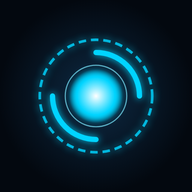
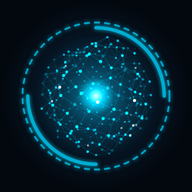
Núcleo animado de partículas com 5 formatos e ícone novo
- public/nucleo.js desenha num <canvas> partículas em 3D em cinco
  formatos (rede neural, galáxia, anéis, cristal, enxame), na cor do
  tema. Reage ao estado: repouso, ouvindo (verde), pensando (gira mais
  rápido) e falando (pulsa a cada palavra).
- Escolha do formato nos Ajustes, com miniaturas, salva no navegador.
- Ícones do app refeitos a partir do núcleo "rede neural".

Claude-Session: https://claude.ai/code/session_01QmDKrBNafgWBL5yhFnsjsj

Changed region(s): [[0.0938, 0.0938, 0.9062, 0.9062], [0.25, 0.1875, 0.2812, 0.2188]]

diff --git a/jarvis/public/nucleo.js b/jarvis/public/nucleo.js
@@ -1,0 +1,223 @@
+// Núcleo animado do Jarvis: partículas em 3D desenhadas num <canvas>.
+// Formatos: neural, galaxia, aneis, cristal, enxame. Reage ao estado (repouso, ouvindo, pensando, falando).
+(function () {
+  const FORMATOS = {
+    neural: "Rede neural",
+    galaxia: "Galáxia",
+    aneis: "Anéis",
+    cristal: "Cristal",
+    enxame: "Enxame",
+  };
+
+  // Gerador pseudoaleatório fixo: o mesmo formato sempre nasce igual.
+  function aleatorio(semente) {
+    let s = semente >>> 0;
+    return () => ((s = (s * 1664525 + 1013904223) >>> 0) / 4294967296);
+  }
+
+  // Cria os pontos (x, y, z em torno de 0, raio ~1) e as ligações de cada formato.
+  function gerar(formato, total) {
+    const r = aleatorio(42);
+    const pontos = [];
+    const ligacoes = [];
+    if (formato === "neural") {
+      const ouro = Math.PI * (3 - Math.sqrt(5));
+      for (let i = 0; i < total; i++) {
+        const y = 1 - (i / (total - 1)) * 2;
+        const raio = Math.sqrt(1 - y * y);
+        const a = ouro * i;
+        const k = 0.72 + r() * 0.28;
+        pontos.push({ x: Math.cos(a) * raio * k, y: y * k, z: Math.sin(a) * raio * k, t: r() });
+      }
+      // Liga cada ponto aos vizinhos mais próximos.
+      for (let i = 0; i < pontos.length; i++) {
+        const perto = [];
+        for (let j = i + 1; j < pontos.length; j++) {
+          const dx = pontos[i].x - pontos[j].x, dy = pontos[i].y - pontos[j].y, dz = pontos[i].z - pontos[j].z;
+          const d = dx * dx + dy * dy + dz * dz;
+          if (d < 0.09) perto.push([d, j]);
+        }
+        perto.sort((a, b) => a[0] - b[0]).slice(0, 2).forEach(([, j]) => ligacoes.push([i, j]));
+      }
+    } else if (formato === "galaxia") {
+      const bracos = 3;
+      for (let i = 0; i < total; i++) {
+        const braco = i % bracos;
+        const d = Math.pow(r(), 0.7);
+        const a = (braco / bracos) * Math.PI * 2 + d * 4.2 + (r() - 0.5) * 0.5;
+        const espalha = (1 - d) * 0.12 + 0.03;
+        pontos.push({ x: Math.cos(a) * d + (r() - 0.5) * espalha, y: (r() - 0.5) * 0.12 * (1 - d), z: Math.sin(a) * d + (r() - 0.5) * espalha, t: r() });
+      }
+    } else if (formato === "aneis") {
+      const aneis = [[0.95, 0.3, 0], [0.75, -0.9, 0.6], [0.55, 1.3, -0.4]];
+      for (let i = 0; i < total; i++) {
+        const [raio, incl, giro] = aneis[i % aneis.length];
+        const a = r() * Math.PI * 2;
+        let x = Math.cos(a) * raio, y = 0, z = Math.sin(a) * raio;
+        // Inclina cada anel num eixo diferente.
+        const y1 = y * Math.cos(incl) - z * Math.sin(incl), z1 = y * Math.sin(incl) + z * Math.cos(incl);
+        const x2 = x * Math.cos(giro) - z1 * Math.sin(giro), z2 = x * Math.sin(giro) + z1 * Math.cos(giro);
+        pontos.push({ x: x2, y: y1, z: z2, t: r(), anel: i % aneis.length });
+      }
+    } else if (formato === "cristal") {
+      const raios = 14;
+      const direcoes = [];
+      for (let k = 0; k < raios; k++) {
+        const y = 1 - (k / (raios - 1)) * 2, raio = Math.sqrt(1 - y * y), a = k * 2.4;
+        direcoes.push([Math.cos(a) * raio, y, Math.sin(a) * raio]);
+      }
+      for (let i = 0; i < total; i++) {
+        const [dx, dy, dz] = direcoes[i % raios];
+        const d = Math.pow(r(), 1.6) * (0.6 + 0.4 * ((i % 3) / 2));
+        pontos.push({ x: dx * d, y: dy * d, z: dz * d, t: r() });
+      }
+    } else {
+      // enxame: nuvem que se mexe sozinha
+      for (let i = 0; i < total; i++) {
+        const u = r(), v = r(), d = Math.cbrt(r()) * 0.95;
+        const teta = u * Math.PI * 2, fi = Math.acos(2 * v - 1);
+        pontos.push({ x: d * Math.sin(fi) * Math.cos(teta), y: d * Math.cos(fi), z: d * Math.sin(fi) * Math.sin(teta), t: r(), vel: 0.5 + r() });
+      }
+    }
+    return { pontos, ligacoes };
+  }
+
+  function corDoTema() {
+    const css = getComputedStyle(document.documentElement);
+    return {
+      acento: css.getPropertyValue("--acento-rgb").trim() || "0, 212, 255",
+      claro: css.getPropertyValue("--nucleo-centro").trim() || "#ffffff",
+      verde: css.getPropertyValue("--verde").trim() || "#2ef2a0",
+    };
+  }
+
+  function hexParaRgb(hex) {
+    const m = hex.replace("#", "").match(/^([0-9a-f]{2})([0-9a-f]{2})([0-9a-f]{2})$/i);
+    return m ? `${parseInt(m[1], 16)}, ${parseInt(m[2], 16)}, ${parseInt(m[3], 16)}` : "46, 242, 160";
+  }
+
+  // Desenha um quadro. "e" = energia (0 a 1), "pulso" = impulso da voz (1 = parado).
+  function desenhar(ctx, tamanho, modelo, formato, tempo, ang, e, pulso, cores, corRgb) {
+    const meio = tamanho / 2;
+    const escala = tamanho * 0.36 * (1 + (pulso - 1) * 0.6);
+    ctx.clearRect(0, 0, tamanho, tamanho);
+
+    // Brilho do centro.
+    const brilho = ctx.createRadialGradient(meio, meio, 0, meio, meio, tamanho * 0.42);
+    brilho.addColorStop(0, `rgba(${corRgb}, ${0.18 + e * 0.32})`);
+    brilho.addColorStop(0.5, `rgba(${corRgb}, ${0.05 + e * 0.1})`);
+    brilho.addColorStop(1, `rgba(${corRgb}, 0)`);
+    ctx.fillStyle = brilho;
+    ctx.fillRect(0, 0, tamanho, tamanho);
+
+    ctx.globalCompositeOperation = "lighter";
+    const cos = Math.cos(ang), sin = Math.sin(ang);
+    const inclinacao = formato === "galaxia" ? 1.05 : 0.35;
+    const ci = Math.cos(inclinacao), si = Math.sin(inclinacao);
+    const proj = new Array(modelo.pontos.length);
+
+    for (let i = 0; i < modelo.pontos.length; i++) {
+      const p = modelo.pontos[i];
+      let { x, y, z } = p;
+      if (formato === "enxame") {
+        const w = tempo * 0.0006 * p.vel;
+        x += Math.sin(w + p.t * 9) * 0.08; y += Math.cos(w * 1.3 + p.t * 7) * 0.08; z += Math.sin(w * 0.7 + p.t * 5) * 0.08;
+      }
+      if (formato === "aneis") {
+        // Cada anel gira numa velocidade.
+        const extra = tempo * 0.0004 * (p.anel + 1) * (p.anel % 2 ? -1 : 1);
+        const c2 = Math.cos(extra), s2 = Math.sin(extra);
+        [x, z] = [x * c2 - z * s2, x * s2 + z * c2];
+      }
+      // Gira em torno do eixo vertical e inclina para dar profundidade.
+      const xr = x * cos - z * sin, zr = x * sin + z * cos;
+      const yr = y * ci - zr * si, zz = y * si + zr * ci;
+      const perspectiva = 2.6 / (2.6 + zz);
+      proj[i] = { x: meio + xr * escala * perspectiva, y: meio + yr * escala * perspectiva, z: zz, p: perspectiva, t: p.t };
+    }
+
+    // Ligações (rede neural).
+    if (modelo.ligacoes.length) {
+      ctx.lineWidth = Math.max(0.5, tamanho / 420);
+      for (const [a, b] of modelo.ligacoes) {
+        const pa = proj[a], pb = proj[b];
+        const alfa = (0.08 + e * 0.22) * ((pa.p + pb.p) / 2 - 0.55);
+        if (alfa <= 0) continue;
+        ctx.strokeStyle = `rgba(${corRgb}, ${alfa})`;
+        ctx.beginPath(); ctx.moveTo(pa.x, pa.y); ctx.lineTo(pb.x, pb.y); ctx.stroke();
+      }
+    }
+
+    // Pontos: os da frente são maiores e mais fortes; alguns piscam.
+    const base = tamanho / 170;
+    for (const q of proj) {
+      const pisca = 0.6 + 0.4 * Math.sin(tempo * 0.003 + q.t * 20);
+      const alfa = Math.min(1, (0.25 + e * 0.6) * (q.p - 0.4) * 1.4 * pisca);
+      if (alfa <= 0.02) continue;
+      const raio = base * q.p * (0.7 + e * 0.6);
+      ctx.fillStyle = q.t > 0.93 ? `rgba(255, 255, 255, ${alfa})` : `rgba(${corRgb}, ${alfa})`;
+      ctx.beginPath(); ctx.arc(q.x, q.y, raio, 0, Math.PI * 2); ctx.fill();
+    }
+
+    // Miolo luminoso.
+    const miolo = ctx.createRadialGradient(meio, meio, 0, meio, meio, tamanho * (0.07 + e * 0.05) * pulso);
+    miolo.addColorStop(0, `rgba(255, 255, 255, ${0.55 + e * 0.4})`);
+    miolo.addColorStop(0.4, `rgba(${corRgb}, ${0.35 + e * 0.3})`);
+    miolo.addColorStop(1, `rgba(${corRgb}, 0)`);
+    ctx.fillStyle = miolo;
+    ctx.beginPath(); ctx.arc(meio, meio, tamanho * 0.2, 0, Math.PI * 2); ctx.fill();
+    ctx.globalCompositeOperation = "source-over";
+  }
+
+  // Núcleo principal, animado.
+  function criar(canvas, { formato = "neural", total } = {}) {
+    const ctx = canvas.getContext("2d");
+    const quieto = window.matchMedia?.("(prefers-reduced-motion: reduce)").matches;
+    const estado = { formato, modelo: null, ang: 0, e: 0.4, pulso: 1, impulso: 1, cores: corDoTema(), ultimo: 0 };
+    const pontosPorFormato = () => total || (innerWidth < 700 ? 170 : 240);
+    estado.modelo = gerar(formato, pontosPorFormato());
+
+    function ajustarTamanho() {
+      const css = canvas.getBoundingClientRect().width || 200;
+      const dpr = Math.min(window.devicePixelRatio || 1, 2);
+      canvas.width = canvas.height = Math.round(css * dpr);
+      estado.tamanho = canvas.width;
+    }
+    ajustarTamanho();
+    addEventListener("resize", ajustarTamanho);
+
+    function quadro(agora) {
+      const dt = Math.min(64, agora - (estado.ultimo || agora));
+      estado.ultimo = agora;
+      const b = document.body.classList;
+      const alvo = b.contains("ouvindo") ? 0.85 : b.contains("falando") ? 0.75 : b.contains("pensando") ? 0.7 : 0.5;
+      const velocidade = (b.contains("pensando") ? 0.0016 : b.contains("ouvindo") ? 0.0007 : 0.00025) * (quieto ? 0.3 : 1);
+      estado.e += (alvo - estado.e) * Math.min(1, dt * 0.004);
+      estado.ang += velocidade * dt;
+      estado.pulso += (estado.impulso - estado.pulso) * Math.min(1, dt * 0.02);
+      estado.impulso += (1 - estado.impulso) * Math.min(1, dt * 0.006);
+      const corRgb = b.contains("ouvindo") ? hexParaRgb(estado.cores.verde) : estado.cores.acento;
+      desenhar(ctx, estado.tamanho, estado.modelo, estado.formato, agora, estado.ang, estado.e, estado.pulso, estado.cores, corRgb);
+      requestAnimationFrame(quadro);
+    }
+    requestAnimationFrame(quadro);
+
+    return {
+      trocarFormato(novo) { estado.formato = novo; estado.modelo = gerar(novo, pontosPorFormato()); },
+      atualizarCores() { estado.cores = corDoTema(); },
+      pulsar(forca) { estado.impulso = Math.max(estado.impulso, forca); },
+    };
+  }
+
+  // Miniatura parada (para escolher o formato nos Ajustes).
+  function miniatura(canvas, formato) {
+    const ctx = canvas.getContext("2d");
+    const dpr = Math.min(window.devicePixelRatio || 1, 2);
+    const css = canvas.getBoundingClientRect().width || 64;
+    canvas.width = canvas.height = Math.round(css * dpr);
+    const cores = corDoTema();
+    desenhar(ctx, canvas.width, gerar(formato, 160), formato, 1200, 0.6, 0.7, 1, cores, cores.acento);
+  }
+
+  window.Nucleo = { FORMATOS, criar, miniatura, gerar, desenhar };
+})();

diff --git a/jarvis/public/app.js b/jarvis/public/app.js
@@ -35,9 +35,13 @@ function definirEstado(estado, texto) {
   }[estado] ?? (el.escuta.checked ? 'Diga "Jarvis" para chamar' : "Toque no círculo e fale");
 }
 
+// Núcleo animado (partículas). O formato escolhido fica salvo no navegador.
+const nucleo = window.Nucleo ? Nucleo.criar($("nucleo"), { formato: guardar.ler("jarvis.formato", "neural") }) : null;
+
 // O círculo dá um "pulo" a cada palavra falada ou ouvida e volta devagar.
 let pulsoTimer = null;
 function pulsar(forca = 1.18) {
+  nucleo?.pulsar(forca);
   el.reator.style.setProperty("--pulso", String(forca));
   clearTimeout(pulsoTimer);
   pulsoTimer = setTimeout(() => el.reator.style.setProperty("--pulso", "1"), 140);
@@ -478,7 +482,30 @@ function aplicarTema(tema) {
   document.documentElement.dataset.tema = tema;
   guardar.escrever("jarvis.tema", tema);
   document.querySelector('meta[name="theme-color"]').content = getComputedStyle(document.documentElement).getPropertyValue("--fundo").trim();
-  document.querySelectorAll(".tema").forEach((b) => b.setAttribute("aria-pressed", String(b.dataset.opcao === tema)));
+  document.querySelectorAll(".tema:not(.formato)").forEach((b) => b.setAttribute("aria-pressed", String(b.dataset.opcao === tema)));
+  nucleo?.atualizarCores();
+  desenharMiniaturas();
+}
+
+// Formatos do núcleo, com miniaturas desenhadas na cor do tema.
+function desenharMiniaturas() {
+  if (!window.Nucleo || !$("dialogoAjustes").open) return;
+  document.querySelectorAll(".formato").forEach((b) => Nucleo.miniatura(b.querySelector("canvas"), b.dataset.formato));
+}
+function escolherFormato(formato) {
+  guardar.escrever("jarvis.formato", formato);
+  nucleo?.trocarFormato(formato);
+  document.querySelectorAll(".formato").forEach((b) => b.setAttribute("aria-pressed", String(b.dataset.formato === formato)));
+}
+if (window.Nucleo) {
+  for (const [id, nome] of Object.entries(Nucleo.FORMATOS)) {
+    const b = criar("button", { type: "button", className: "tema formato" });
+    b.dataset.formato = id;
+    b.append(criar("canvas"), document.createTextNode(nome));
+    b.addEventListener("click", () => escolherFormato(id));
+    $("formatos").append(b);
+  }
+  escolherFormato(guardar.ler("jarvis.formato", "neural"));
 }
 for (const [id, nome, cor] of TEMAS) {
   const b = criar("button", { type: "button", className: "tema" });
@@ -514,7 +541,7 @@ $("testarVoz").addEventListener("click", () => {
   falando.falar("Olá! Esta é a minha voz. Como posso ajudar?").then(() => definirEstado(null));
   el.voz.checked = ligada;
 });
-$("botaoAjustes").addEventListener("click", () => { preencherVozes(); $("dialogoAjustes").showModal(); });
+$("botaoAjustes").addEventListener("click", () => { preencherVozes(); $("dialogoAjustes").showModal(); desenharMiniaturas(); });
 
 // ---------- Google Agenda ----------
 const botaoGoogle = $("botaoGoogle");

diff --git a/jarvis/public/estilo.css b/jarvis/public/estilo.css
@@ -186,7 +186,7 @@ main {
 }
 .anel { position: absolute; inset: 0; border-radius: 50%; border: 2px solid var(--acento); opacity: .7; }
 .a1 { border-style: dashed; animation: girar 18s linear infinite; }
-.a2 { inset: 22px; border-width: 4px; border-color: var(--acento) transparent var(--acento) transparent; animation: girar 6s linear infinite reverse; }
+.a2 { inset: 8px; border-width: 3px; opacity: .55; border-color: var(--acento) transparent var(--acento) transparent; animation: girar 6s linear infinite reverse; }
 .a3 { inset: 46px; border-width: 1px; box-shadow: 0 0 24px var(--acento) inset; animation: girar 10s linear infinite; scale: calc(1 + (var(--pulso) - 1) * .5); transition: scale .12s ease-out; }
 .nucleo {
   position: absolute; inset: 72px; border-radius: 50%;
@@ -196,6 +196,8 @@ main {
   scale: var(--pulso);
   transition: scale .12s ease-out, box-shadow .12s ease-out;
 }
+.nucleo-canvas { position: absolute; inset: 16px; width: calc(100% - 32px); height: calc(100% - 32px); border-radius: 50%; }
+.formato canvas { width: 56px; height: 56px; display: block; }
 body.ouvindo .nucleo { background: radial-gradient(circle, var(--nucleo-centro) 0%, #9dffcf 30%, var(--verde) 60%, transparent 72%); box-shadow: 0 0 calc(50px * var(--pulso)) var(--verde); animation-duration: .8s; }
 body.ouvindo .anel { border-color: var(--verde); }
 body.pensando .a2 { animation-duration: 1s; }
@@ -268,6 +270,7 @@ dialog h3 { font-family: "Orbitron", sans-serif; font-size: 15px; letter-spacing
   .centro { order: -1; }
   .reator { width: 160px; height: 160px; }
   .a2 { inset: 16px; } .a3 { inset: 34px; } .nucleo { inset: 54px; }
+  .nucleo-canvas { inset: 10px; width: calc(100% - 20px); height: calc(100% - 20px); }
   .conversa { max-height: 50vh; }
   header { padding: 10px 16px; }
   .relogio { display: none; }

diff --git a/jarvis/public/index.html b/jarvis/public/index.html
@@ -52,8 +52,8 @@
 
     <section class="centro">
       <button class="reator" id="reator" aria-label="Falar com o Jarvis">
-        <span class="anel a1"></span><span class="anel a2"></span><span class="anel a3"></span>
-        <span class="nucleo"></span>
+        <span class="anel a1"></span><span class="anel a2"></span>
+        <canvas class="nucleo-canvas" id="nucleo" aria-hidden="true"></canvas>
       </button>
       <div class="estado" id="estado">Toque no círculo e fale</div>
 
@@ -98,6 +98,8 @@
       <div class="campos">
         <label><span>Tema</span></label>
         <div class="temas" id="temas"></div>
+        <label><span>Formato do núcleo</span></label>
+        <div class="temas formatos" id="formatos"></div>
         <label><span>Voz</span>
           <select id="escolhaVoz"><option value="">Automática</option></select>
         </label>
@@ -110,6 +112,7 @@
     </form>
   </dialog>
 
+  <script src="nucleo.js"></script>
   <script src="app.js"></script>
 </body>
 </html>

diff --git a/jarvis/README.md b/jarvis/README.md
@@ -19,7 +19,8 @@ Os painéis laterais mostram os lembretes, as notas e o resumo financeiro do mê
 Outros recursos:
 - **Resposta em tempo real:** o texto aparece enquanto é gerado, e a voz começa na primeira frase, sem esperar a resposta inteira.
 - **Botões rápidos** (+ Gasto/Ganho, + Nota, + Lembrete): salvam direto, sem usar a IA, e por isso não custam nada.
-- **Ajustes (⚙):** cinco temas de cor (azul, vermelho, verde, roxo e claro), escolha da voz e da velocidade da fala, e um botão para testar a voz. O círculo pulsa a cada palavra falada ou ouvida.
+- **Ajustes (⚙):** cinco temas de cor (azul, vermelho, verde, roxo e claro), cinco formatos de núcleo animado (rede neural, galáxia, anéis, cristal e enxame), escolha da voz e da velocidade da fala, e um botão para testar a voz.
+- **Núcleo animado:** partículas em 3D (`public/nucleo.js`). Ficam calmas em repouso, verdes quando ele está ouvindo, giram mais rápido quando ele pensa e pulsam a cada palavra falada.
 - **Economia:** a conversa recomeça sozinha a cada dia, porque conversas curtas custam menos. Notas, gastos e lembretes continuam guardados. Cada pergunta faz no máximo 2 pesquisas na internet.
 
 ## Como rodar
